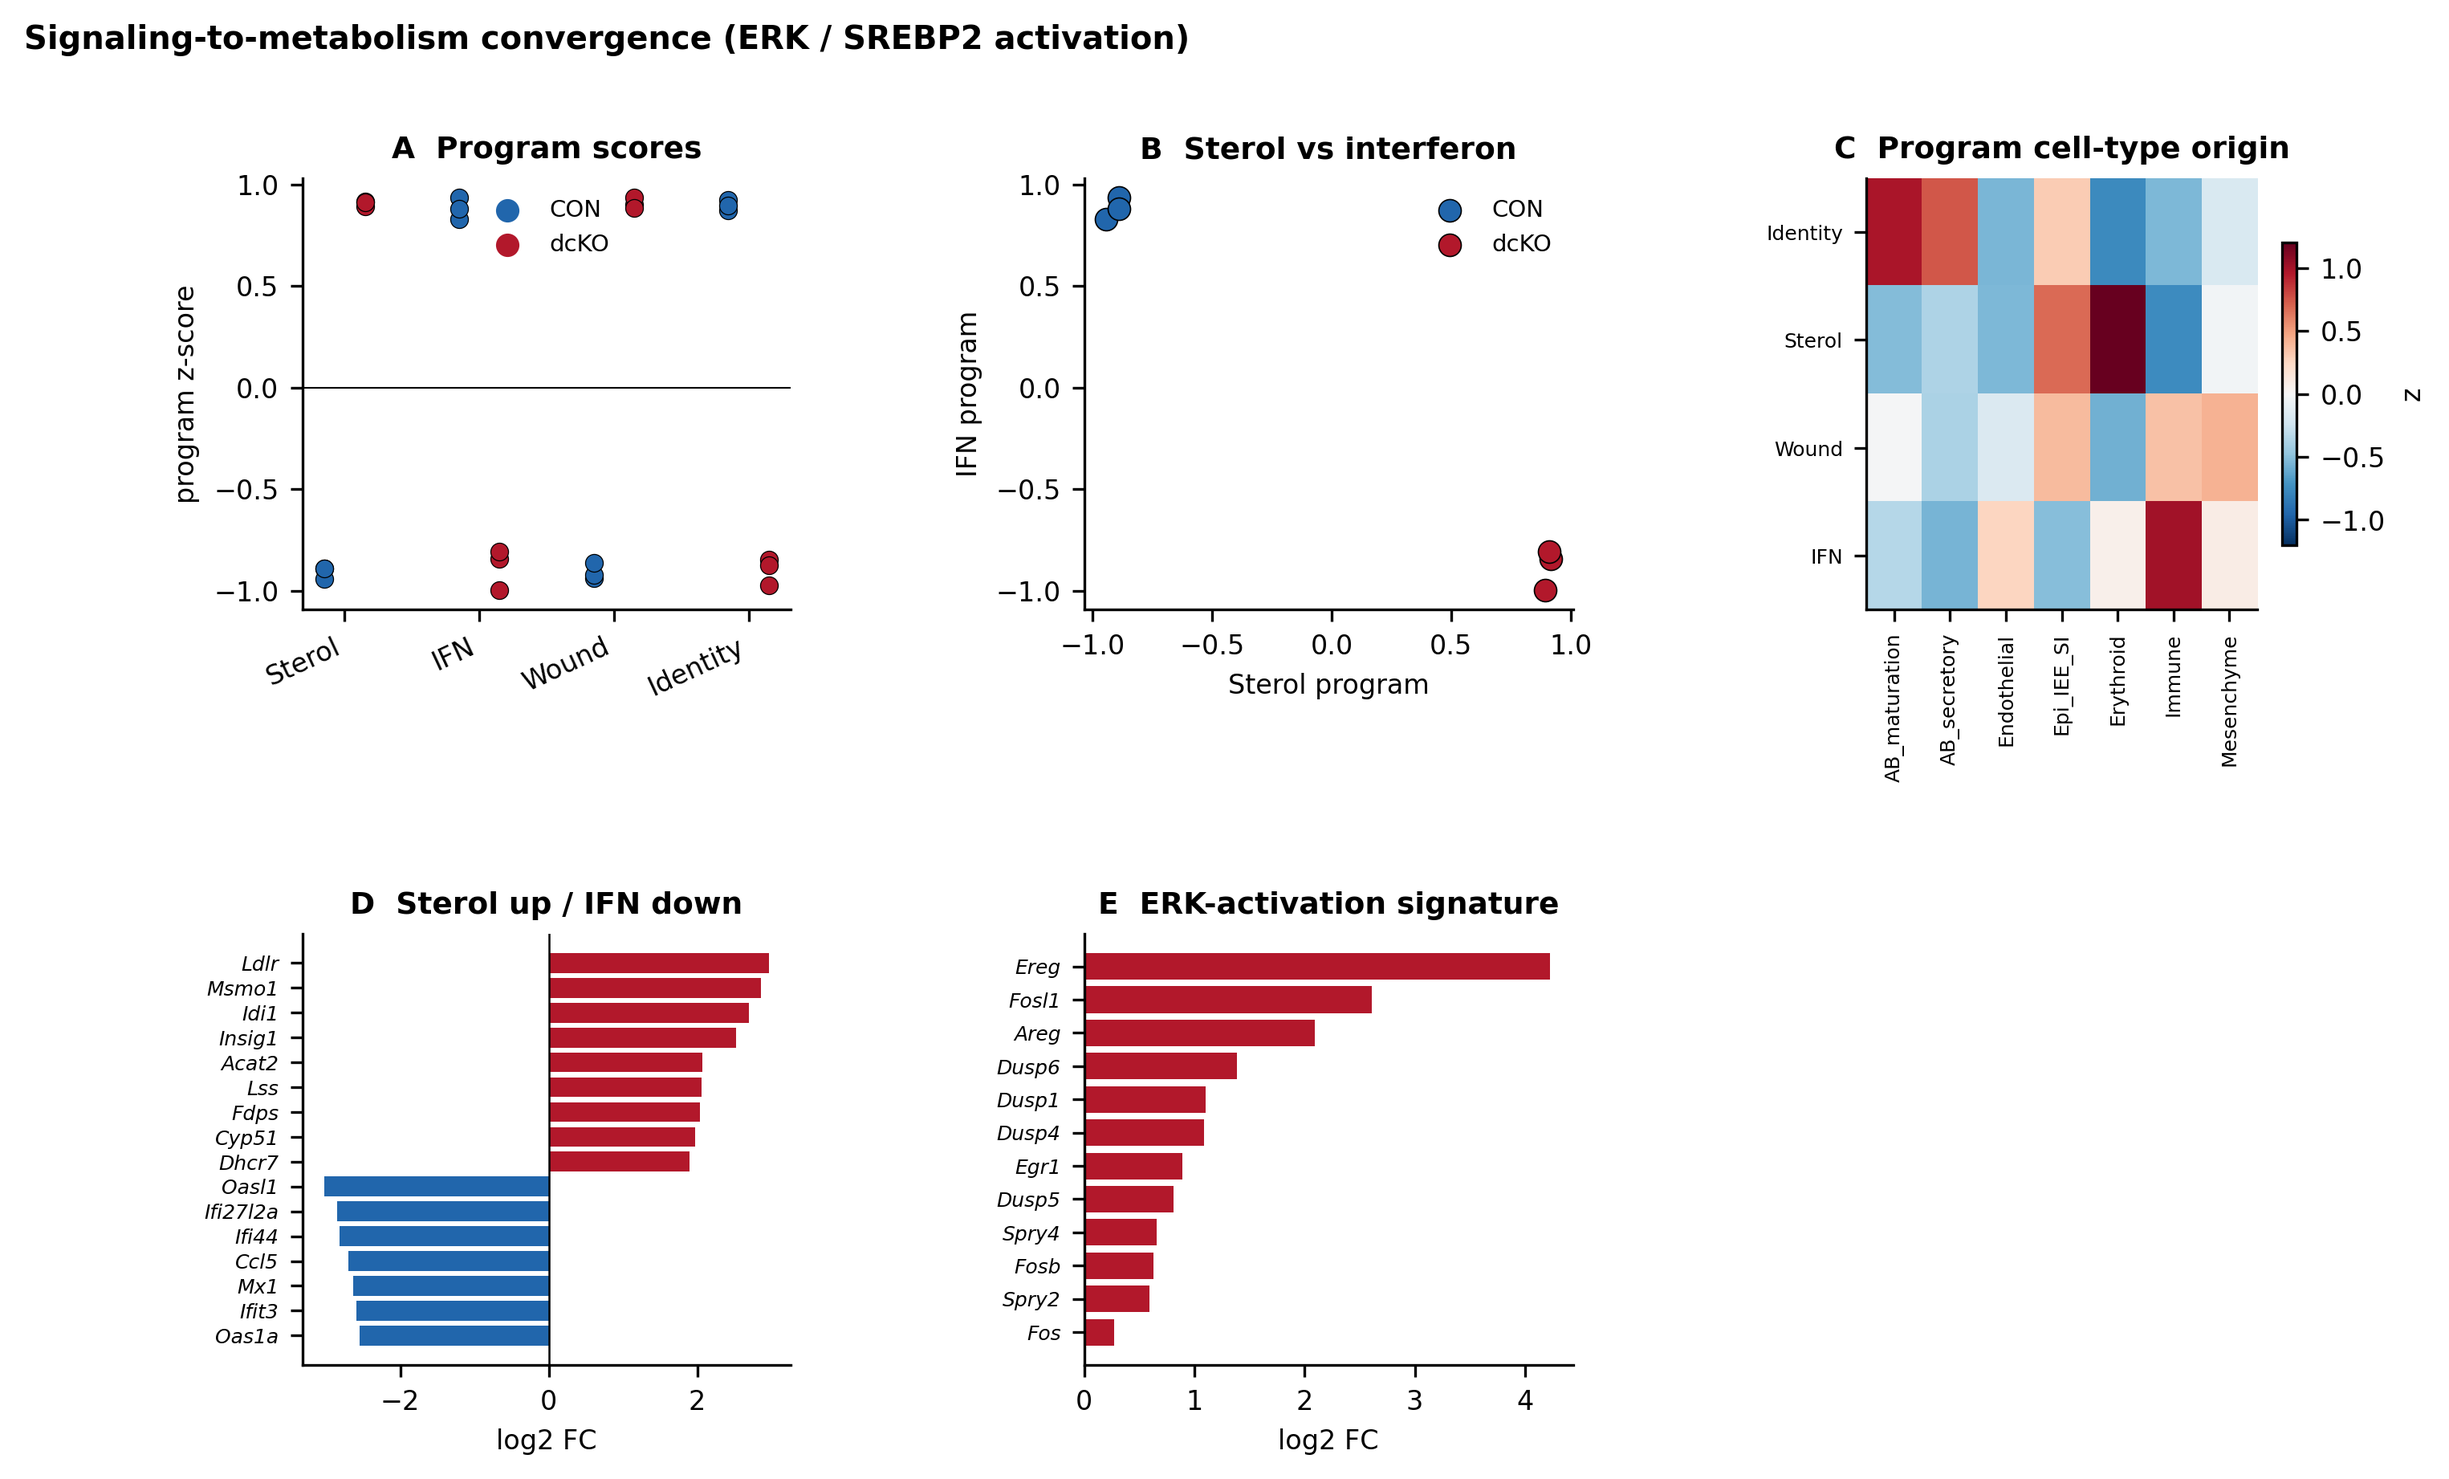
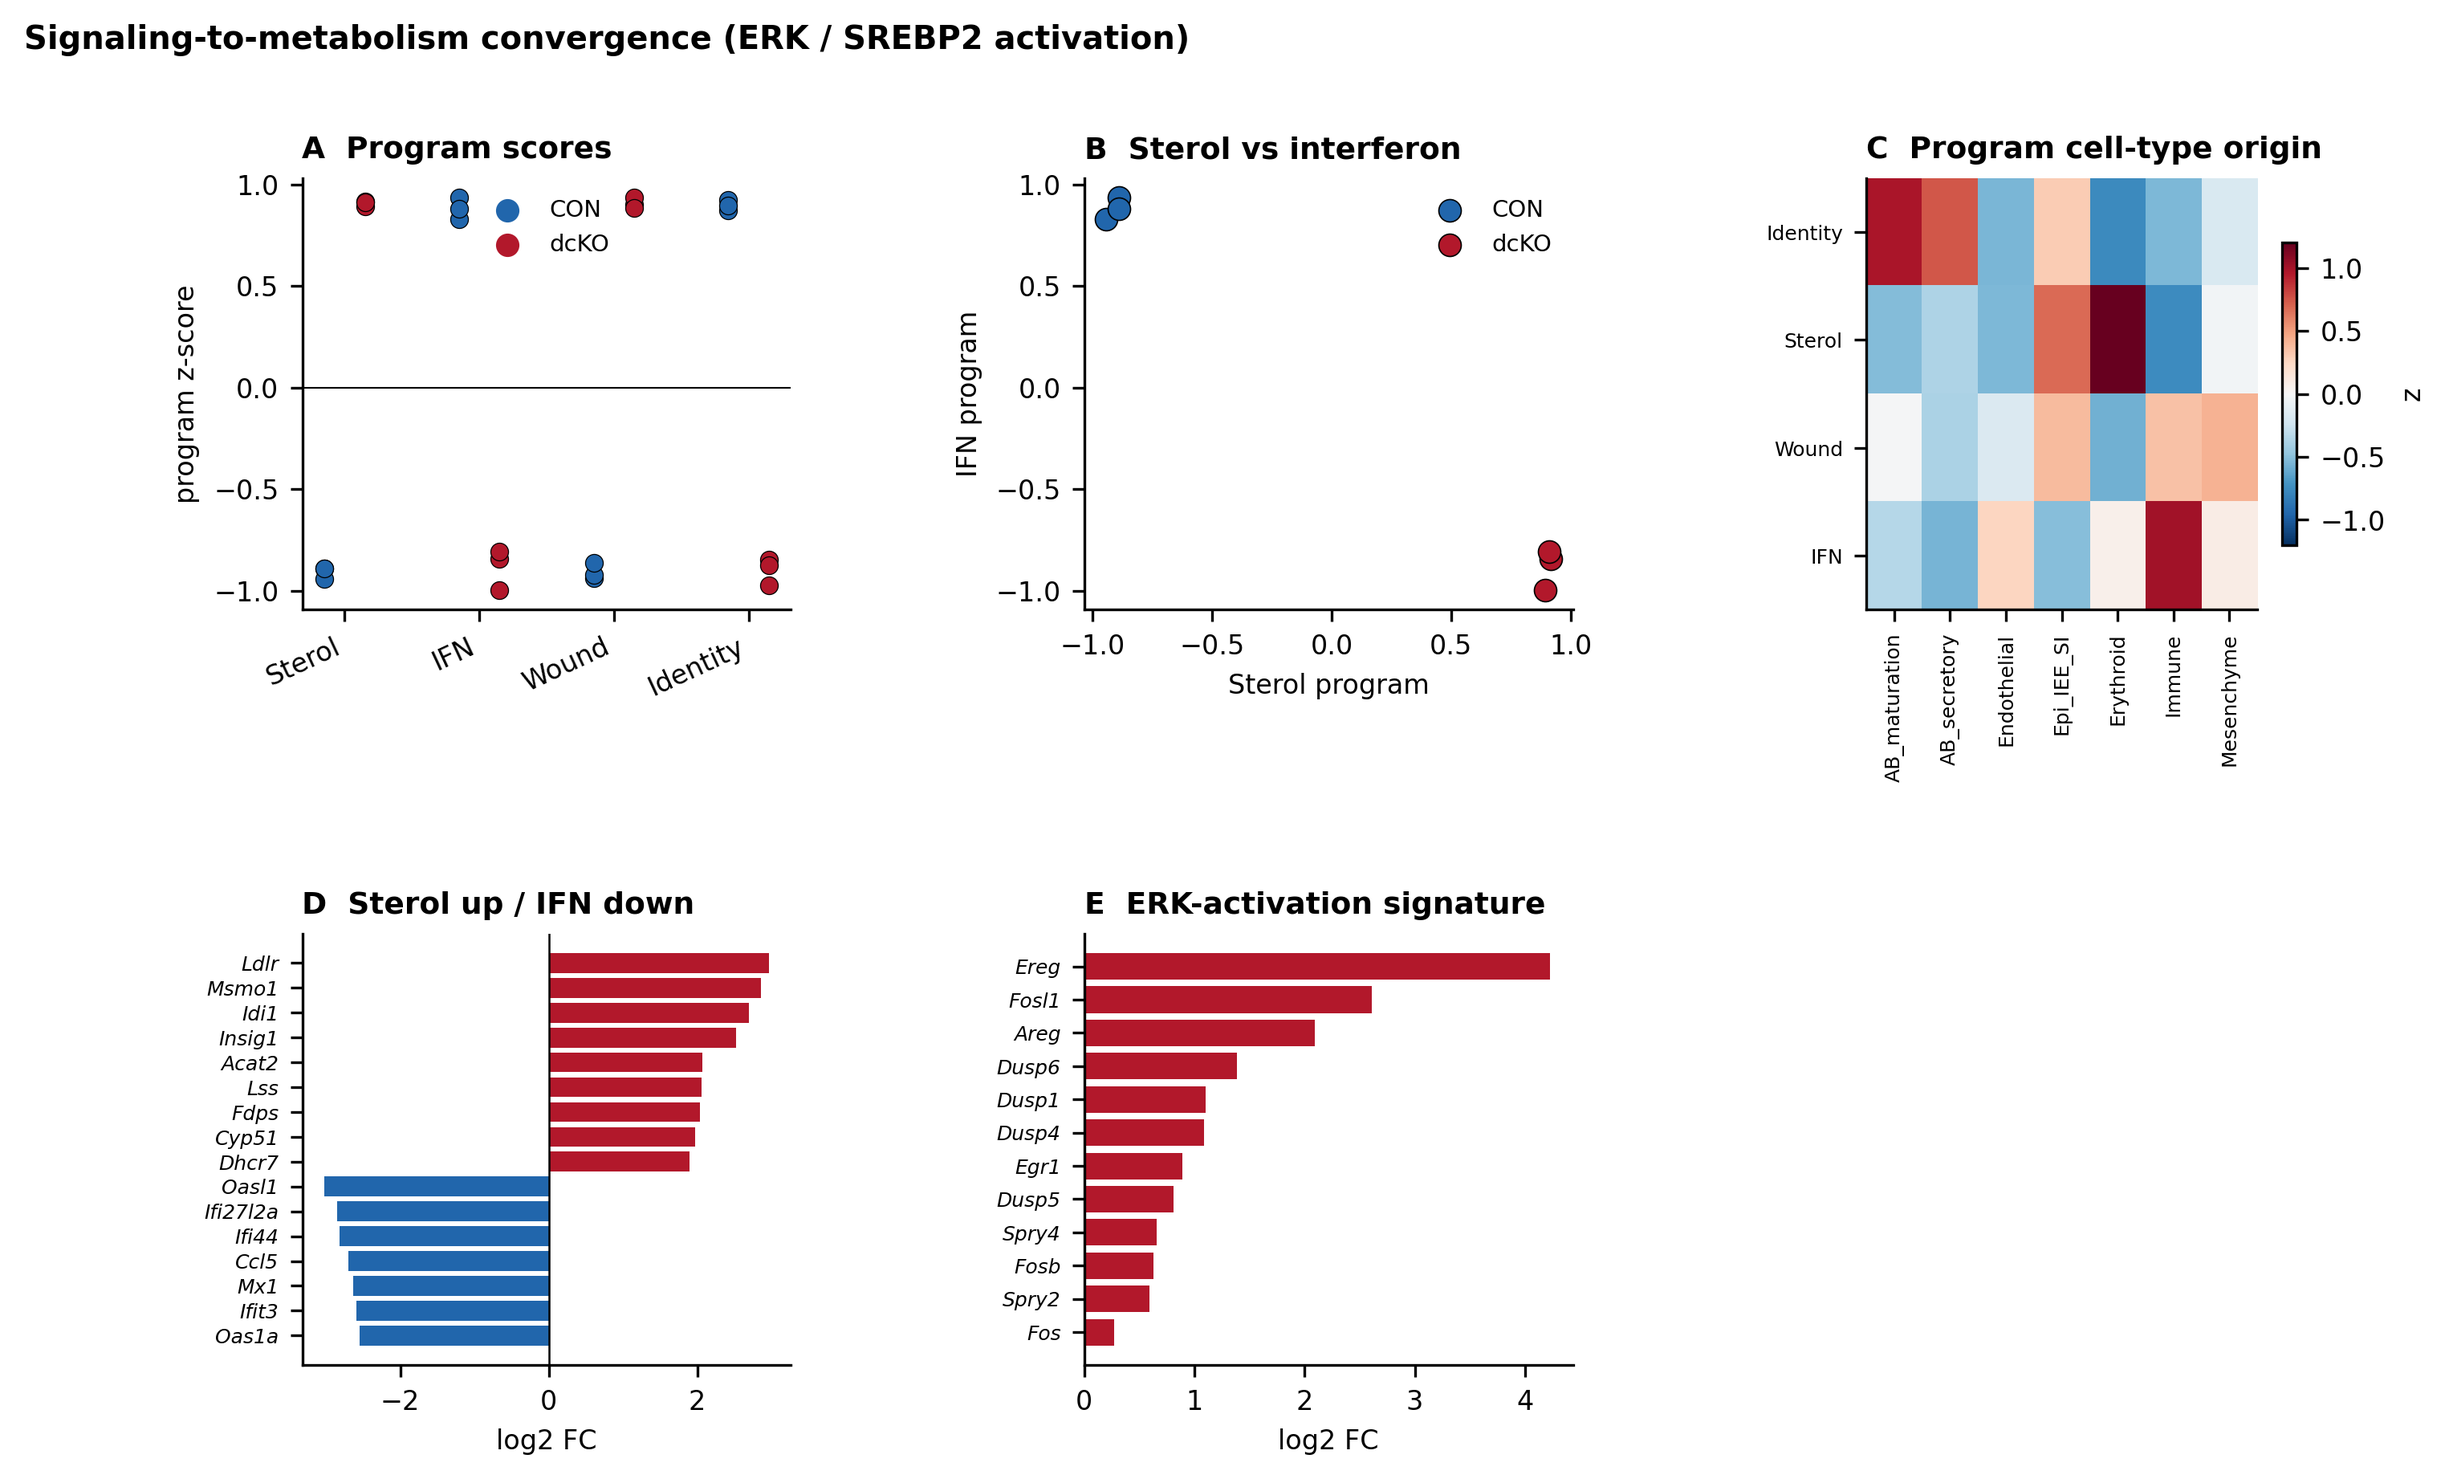
Document the data-integrity findings and left-align panel labels
README: new "Data-integrity notes" section recording the four constraints that govern
how this code must be used —

  * DEG_table.csv must be read with float_precision="round_trip" (tiny adjusted P values
    are stored in full decimal; the default parser flushes them to 0.0, which made 420
    genes look like underflow when only 5 are);
  * the AI-gene panel is external and version-pinned (PanelApp 269 v4.37) because its
    hand-curated predecessor had a largely fabricated provenance column;
  * program scores are effect sizes with an exact permutation P (floor 0.10 at n=3);
    a parametric t test is invalid on z-scored per-sample quantities;
  * the sequenced material is K14-creER, while Figure 1 uses the constitutive K14-cre.

Code: panel labels A/B/C are left-aligned via a single rcParam so new panels inherit it;
07_figures.py documents that panel A is computed on unadjusted values and therefore
differs from the primary pipeline's batch-corrected QC plots (PC1 53.4% vs 58.77%).
10_build_manuscript_docx.py carries the heading, payload and docx ground-truth guards.

Also removed three stale figures under the retired numbering (Figure3_transcriptome,
Figure4_identity_switch, Figure5_metabolic_immune). They were superseded on 2026-07-26,
no script writes them, and their content predates the genotype and parsing corrections.

diff --git a/pipeline/10_build_manuscript_docx.py b/pipeline/10_build_manuscript_docx.py
@@ -44,10 +44,10 @@ REFS = {
  "horton":  "Horton JD, Shah NA, Warrington JA, et al. Combined analysis of oligonucleotide microarray data from transgenic and knockout mice identifies direct SREBP target genes. Proc Natl Acad Sci U S A. 2003;100(21):12027–12032.",
  "interferome":"Rusinova I, Forster S, Yu S, et al. Interferome v2.0: an updated database of annotated interferon-regulated genes. Nucleic Acids Res. 2013;41(Database issue):D1040–D1046.",
  "leez":    "Lee E, Chuang H-Y, Kim J-W, Ideker T, Lee D. Inferring pathway activity toward precise disease classification. PLoS Comput Biol. 2008;4(11):e1000217.",
- "chiba":   "Chiba Y, Saito K, Martin D, et al. Single-cell RNA-sequencing from mouse incisor reveals dental epithelial cell-type specific genes. Front Cell Dev Biol. 2020;8:841. [complete author list before submission]",
+ "chiba":   "Chiba Y, Saito K, Martin D, Boger ET, Rhodes C, Yoshizaki K, et al. Single-cell RNA-sequencing from mouse incisor reveals dental epithelial cell-type specific genes. Front Cell Dev Biol. 2020;8:841.",
  "li11":    "Li J, Huang X, Xu X, Mayo J, Bringas P Jr, Jiang R, Wang S, Chai Y. SMAD4-mediated WNT signaling controls the fate of cranial neural crest cells during tooth morphogenesis. Development. 2011;138(10):1977–1989.",
  "kotzka":  "Kotzka J, Lehr S, Roth G, Avci H, Knebel B, Müller-Wieland D. Insulin-activated Erk-mitogen-activated protein kinases phosphorylate sterol regulatory element-binding protein-2 at serine residues 432 and 455 in vivo. J Biol Chem. 2004;279(21):22404–22411.",
- "zhang21": "Zhang J, et al. The absence of muscle segment homeobox 2 leads to the pyroptosis of ameloblasts by inducing squamous epithelial hyperplasia in the enamel organ. J Cell Mol Med. 2021;25(13):6429–6437. [complete author list before submission]",
+ "zhang21": "Zhang J, Xu Y, Zhao Y, Bai J, Xu M, Li C, et al. The absence of muscle segment homeobox 2 leads to the pyroptosis of ameloblasts by inducing squamous epithelial hyperplasia in the enamel organ. J Cell Mol Med. 2021;25(13):6429–6437.",
  "klein":   "Klein OD, Lyons DB, Balooch G, Marshall GW, Basson MA, Peterka M, Boran T, Peterkova R, Martin GR. An FGF signaling loop sustains the generation of differentiated progeny from stem cells in mouse incisors. Development. 2008;135(2):377–385.",
  "goldberg":"Goldberg M, Septier D. Phospholipids in amelogenesis and dentinogenesis. Crit Rev Oral Biol Med. 2002;13(3):276–290.",
  "wang":    "Wang S, Link F, Han M, et al. The interplay of TGF-β1 and cholesterol orchestrating hepatocyte cell fate. Cell Mol Gastroenterol Hepatol. 2024;17(4):567–587.",
@@ -196,6 +196,27 @@ def main():
             if not re.search(rf"^{re.escape(h)}\s*$", plain, flags=re.M)]
     if lost:
         raise RuntimeError(f"section heading(s) absent from the built .docx: {lost}")
+    # PAYLOAD GUARD. Headings are not the only thing pandoc silently eats. Markdown
+    # metacharacters in ordinary text are consumed too: the significance key
+    # "*P < 0.05, **P < 0.01, ..." was parsed as emphasis and deleted from the .docx,
+    # and unclosed carets (Smad4^fl/fl) rendered as literal '^'. Assert the literal
+    # payload survived into the built document.
+    flat = re.sub(r"\s+", " ", plain)   # pandoc's plain output line-wraps
+    if flat.count("*P < 0.05, **P < 0.01, ***P < 0.001, ****P < 0.0001") != 2:
+        raise RuntimeError(
+            "the significance key must appear exactly twice (Figure 2 and Figure 3 legends); "
+            "if it is missing, pandoc parsed the asterisks as emphasis — escape them as "
+            "\\*P < 0.05 ... in the source")
+    # Pandoc's plain output writes a REAL superscript as "^(...)", so only a caret that
+    # is NOT followed by "(" indicates an unclosed superscript that rendered literally.
+    bare = [ln.strip()[:70] for ln in plain.split("\n") if re.search(r"\^(?!\()", ln)]
+    if bare:
+        raise RuntimeError(
+            f"literal '^' in the built .docx (unclosed superscript, e.g. Smad4^fl/fl "
+            f"instead of Smad4^fl/fl^): {bare[:3]}")
+    for note in ("[complete author list", "[[", "]]"):
+        if note in plain and note == "[complete author list":
+            raise RuntimeError("an editorial to-do note is inside the built manuscript")
     print(f"section headings present: {len(REQUIRED)}/{len(REQUIRED)}")
     print("references cited:", len(order))
     print("unmapped author-year citations:", leftover if leftover else "none")

diff --git a/pipeline/07_figures.py b/pipeline/07_figures.py
@@ -32,6 +32,7 @@ SAMP = ["TPM_CON_1","TPM_CON_2","TPM_CON_3","TPM_dcKO_1","TPM_dcKO_2","TPM_dcKO_
 GRP  = ["CON"]*3 + ["dcKO"]*3
 BLUE, RED, GREY = "#2166AC", "#B2182B", "#BBBBBB"
 plt.rcParams.update({"font.size": 8, "axes.titlesize": 9, "axes.titleweight": "bold",
+                     "axes.titlelocation": "left",   # panel labels A/B/C left-aligned
                      "figure.dpi": 150, "savefig.dpi": 300, "axes.spines.top": False,
                      "axes.spines.right": False})
 
@@ -71,7 +72,14 @@ def figure4(deg, tpm, mod):
     outer = fig.add_gridspec(1, 3, width_ratios=[1, 1.06, 1], wspace=0.30,
                              left=0.055, right=0.985, top=0.88, bottom=0.145)
     ax = [fig.add_subplot(outer[0]), None, fig.add_subplot(outer[2])]
-    # (A) standard PCA on top-2000 variable genes (log2 TPM, gene-centered, no unit scaling)
+    # (A) PCA on log2(TPM+1) of the top-2000 variable genes, gene-centered, no unit
+    # scaling, plotted as PC SCORES (U*S).
+    # NOTE: this is NOT the same computation as the primary pipeline's QC figures
+    # 00.RawData/Bulk-RNAseq/00-{1,2}.{Before,After}BatchCorrect_PCA.png, which plot
+    # unit-norm eigenvectors (axis range +/-0.4) of the RUV-processed counts and report
+    # PC1 = 50.16% (before) and 58.77% (after). This panel uses raw TPM with no RUV
+    # adjustment, hence PC1 = 53.4%. The difference is the input matrix and the scaling,
+    # not an error; the legend states which is shown so the two cannot be confused.
     lg = np.log2(tpm + 1)
     top = lg.var(axis=1).sort_values(ascending=False).head(2000).index
     M = lg.loc[top].T.values                 # samples x genes

diff --git a/README.md b/README.md
@@ -178,7 +178,7 @@ the code **fails loudly** rather than substituting a stored fallback. See `ENVIR
 | | Value |
 |---|---|
 | DEGs (padj < 0.05, \|log2FC\| > 1) | **563** (209 up / 354 down) of 15,803 tested |
-| Human AI-gene enrichment (down vs up) | **OR 9.21, P = 1.7 × 10⁻⁴** (PanelApp 269 v4.37, 31 GREEN genes) |
+| Human AI-gene enrichment (down vs up) | **OR 9.21, P = 1.7 × 10⁻⁴** (PanelApp 269 v4.37, 31 GREEN genes; 18 of 20 significant panel genes are down-regulated) |
 | Ameloblast fraction (deconvolution) | preserved/increased (maturation 57 → 61%, *P* = 0.006) → switch is cell-intrinsic |
 | Sterol (SREBP2) programme | coordinately up; ERK-driven, Smad-de-repressed |
 
@@ -186,6 +186,38 @@ The amelogenesis-imperfecta gene panel is taken from **Genomics England PanelApp
 version 4.37, GREEN genes only) so the gene set is versioned and reproducible; each gene's OMIM
 phenotype MIM and primary reference are verified in `pipeline/ai_gene_provenance.py` and
 Supplementary Tables S1–S2.
+
+---
+
+## Data-integrity notes
+
+This repository records defects found during pre-submission auditing and how they were
+resolved, because the fixes constrain how the code must be used.
+
+**Read `DEG_table.csv` with `float_precision="round_trip"`.** Very small adjusted *P*
+values are stored in full decimal notation (*Amelx* has 91 leading zeros) and pandas'
+default float parser silently flushes them to `0.0`. This made 420 genes look like
+underflow when only **5** genuinely are, and fabricated the −log10 *P* distribution that
+an earlier version of Figure 4B was designed around. DEG counts and the enrichment were
+**unaffected** — every threshold is `padj < 0.05`, and 0 < 0.05 — so the corruption was
+confined to displays and exported values.
+
+**The AI-gene panel is external and version-pinned.** Its hand-curated predecessor had a
+largely fabricated provenance column (18 of 20 PMIDs cited unrelated papers). It is
+replaced by Genomics England PanelApp panel 269 v4.37, retrieved by
+`pipeline/17_fetch_ai_panel.py`, which fails loudly rather than falling back to a stored
+copy. Every OMIM phenotype MIM and primary PMID for all 31 genes was verified against
+NCBI; see `results/supplementary_data/AI_gene_provenance_TableS1_S2.md`.
+
+**Program scores are effect sizes, not *t* tests.** Each gene is *z*-scored across the
+same six samples before averaging, which collapses within-group variance; a parametric
+*t* test on the result returns *P* values that measure the scoring arithmetic rather than
+biological replication. With n = 3 vs 3 the exact permutation floor is **P = 0.10**, and
+all four programs attain it.
+
+**Genotypes differ by experiment.** The sequenced material is
+*K14-creER;Smad4^fl/fl^* (tamoxifen-inducible); the in vivo enamel phenotype in Figure 1
+uses the constitutive *K14-cre* line.
 
 ---
 

diff --git a/results/supplementary_data/AI_gene_provenance_TableS1_S2.md b/results/supplementary_data/AI_gene_provenance_TableS1_S2.md
@@ -1,10 +1,8 @@
 # Amelogenesis-imperfecta gene panel — verified provenance
 
-Generated by `pipeline/ai_gene_provenance.py`. These are Supplementary Tables S1 and S2 of the
-manuscript, reproduced here so the repository is self-contained.
-
-Every identifier was verified on 2026-07-27 against NCBI: OMIM phenotype-vs-gene MIM class via
-`mim2gene_medgen`, and PMID existence/topic via E-utilities.
+Generated by `pipeline/ai_gene_provenance.py`. Supplementary Tables S1–S2 of the manuscript,
+reproduced here so the repository is self-contained. Every identifier was verified on
+2026-07-27 against NCBI (`mim2gene_medgen` for MIM class, E-utilities for PMIDs).
 
 ## Table S1 — audit of the retired hand-curated list
 
@@ -33,10 +31,7 @@ AUDIT: 20 candidate genes; 18/20 claimed PMIDs cite unrelated work; 10/20 claime
 | WNT10A | 150400 | wrong disease (tooth agenesis 4) | 257980 | 17952058 | melanopsin / circadian clock | — (excluded) | no |
 | KMT2D | 147920 | phenotype (correct) | 147920 | 40103013 | correct (KMT2D enamel development) | — (excluded) | no |
 
-## Table S2 — verified provenance of the 31 PanelApp GREEN genes used
-
-Source: Genomics England PanelApp panel 269 "Amelogenesis imperfecta" v4.37 (GREEN only),
-retrieved 27 July 2026. Mouse orthologs from MGI, as carried in the Ensembl release 116 annotation.
+## Table S2 — verified provenance of the 31 PanelApp GREEN genes
 
 | Gene (human) | Mouse | OMIM phenotype MIM | Phenotype | Inheritance | Primary reference (PMID) | Notes |
 |---|---|---|---|---|---|---|
